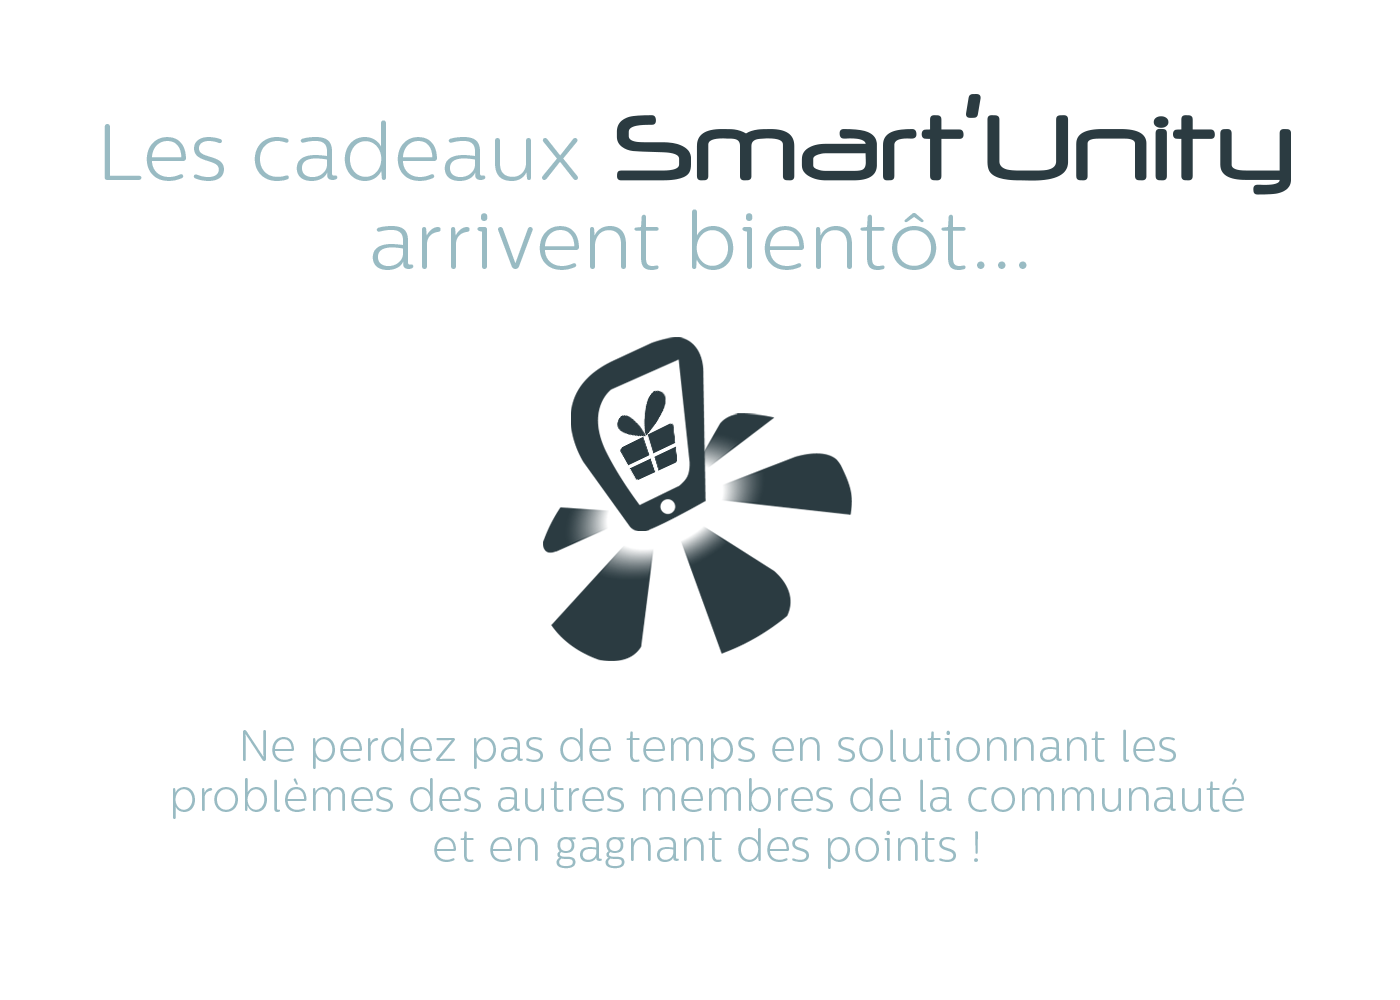
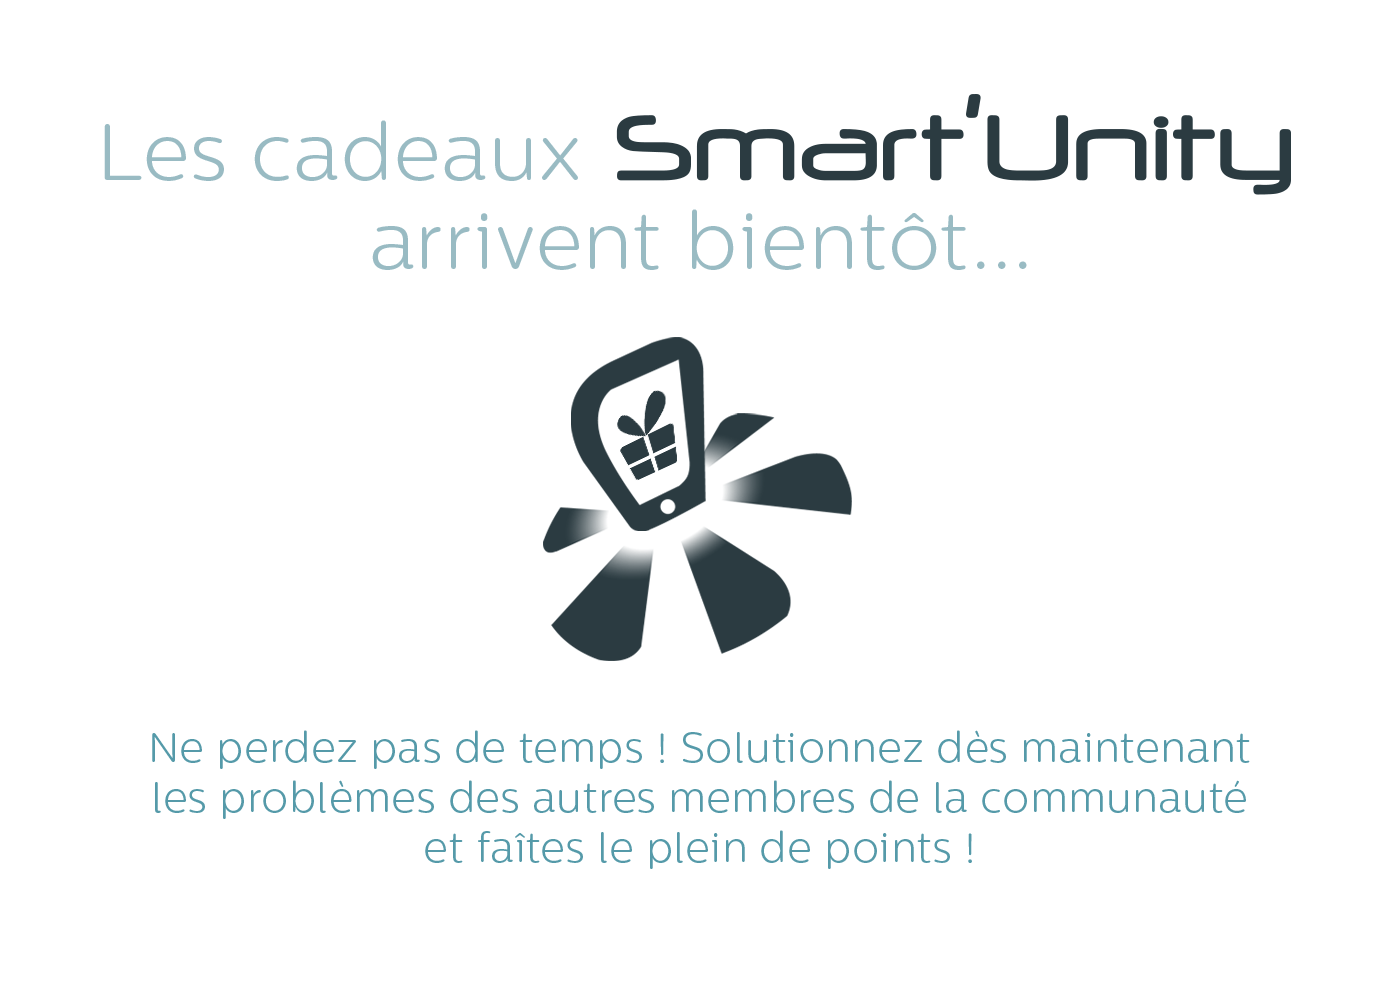
nouvelle image boutique + début cagnotte espace membre

Changed region(s): [[0.1229, 0.713, 0.8907, 0.868]]

diff --git a/web/assets/css/mon-compte.css b/web/assets/css/mon-compte.css
@@ -300,3 +300,11 @@ h1
 #form_file:focus {
 	outline: 0;
 }
+
+.cagnotte {
+	float: right;
+}
+
+.cagnotte img {
+	width: 90%;
+}
